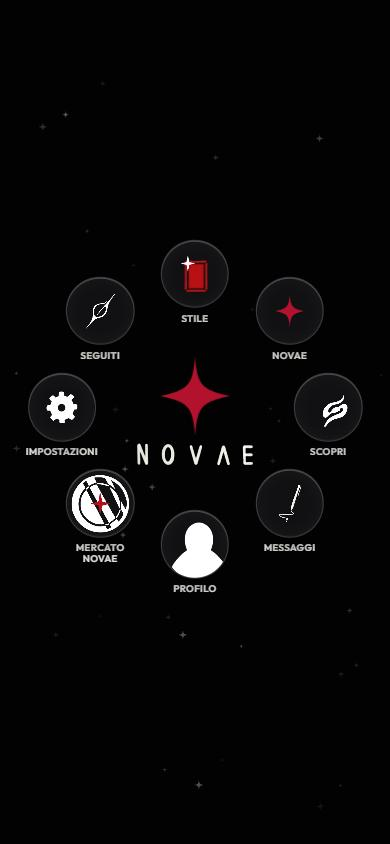
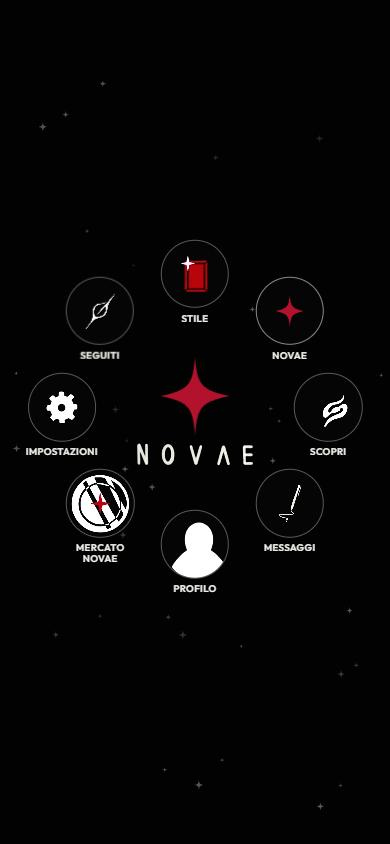
Tolto l'effetto vetro dai tasti
Cerchi del menu e della ruota, pannelli e notifiche tornano pieni
(sfondo nero, bordo grigio sottile). Aggiornati gli screenshot del README.

diff --git a/styles.css b/styles.css
@@ -698,33 +698,6 @@ body[data-screen="disciplina"] .rail { right: max(4px, calc(50% - 560px + 2px));
 .cf-foot a { min-width: 0; overflow: hidden; text-overflow: ellipsis; white-space: nowrap; }
 .cf-foot .act small { font-size: 10px; }
 
-/* ---------- Liquid glass (web approximation: backdrop-filter + layered highlights, not Apple's material) ---------- */
-.hub-circle, .arc-circle, .sheet, .toast, .play-ico, .wallet {
-  --glass-edge: rgba(255, 255, 255, .16);
-  background:
-    radial-gradient(120% 90% at 30% 0%, rgba(255, 255, 255, .11), rgba(255, 255, 255, .02) 46%, transparent 70%),
-    rgba(14, 14, 16, .42);
-  -webkit-backdrop-filter: blur(14px) saturate(170%);
-  backdrop-filter: blur(14px) saturate(170%);
-  border-color: var(--glass-edge);
-  box-shadow:
-    inset 0 1px 0 rgba(255, 255, 255, .24),
-    inset 0 -1px 0 rgba(255, 255, 255, .05),
-    inset 0 0 14px rgba(255, 255, 255, .035),
-    0 10px 30px rgba(0, 0, 0, .45);
-}
-.hub-btn:hover .hub-circle, .hub-btn:focus-visible .hub-circle, .hub-last .hub-circle { --glass-edge: rgba(255, 255, 255, .38); border-color: var(--glass-edge); }
-.arc-item.sel .arc-circle { border-color: rgba(255, 255, 255, .55); box-shadow: inset 0 1px 0 rgba(255,255,255,.3), 0 0 0 5px rgba(214,28,64,.16), 0 10px 30px rgba(0,0,0,.5); }
-.sheet { background: radial-gradient(90% 40% at 30% 0%, rgba(255,255,255,.08), transparent 70%), rgba(16, 16, 18, .78); border: 1px solid var(--glass-edge); border-bottom: 0; }
-.toast { color: var(--ink); border: 1px solid var(--glass-edge); background: rgba(22, 22, 24, .7); }
-@supports not ((backdrop-filter: blur(1px)) or (-webkit-backdrop-filter: blur(1px))) {
-  .hub-circle, .arc-circle, .play-ico, .wallet { background: #0e0e10; }
-  .sheet, .toast { background: #161618; }
-}
-@media (prefers-reduced-transparency: reduce) {
-  .hub-circle, .arc-circle, .sheet, .toast, .play-ico, .wallet { background: #111113; -webkit-backdrop-filter: none; backdrop-filter: none; }
-}
-
 /* ---------- QOL: save, publish, edit profile, action list, pull to refresh ---------- */
 .post-by small { display: block; margin-top: 2px; font-size: 9.5px; font-weight: 500; letter-spacing: .02em; text-transform: none; color: var(--ink-3); }
 .post .new-tag { font-size: 10px; font-weight: 700; letter-spacing: .12em; text-transform: uppercase; color: var(--accent-hi); line-height: 18px; }

diff --git a/index.html b/index.html
@@ -12,10 +12,10 @@
   <link href="https://fonts.googleapis.com/css2?family=Outfit:wght@300;400;500;600&display=swap" rel="stylesheet">
   <link rel="stylesheet" href="https://cdn.jsdelivr.net/npm/@phosphor-icons/web@2.1.1/src/light/style.css">
   <link rel="stylesheet" href="https://cdn.jsdelivr.net/npm/@phosphor-icons/web@2.1.1/src/fill/style.css">
-  <link rel="stylesheet" href="styles.css?v=24">
+  <link rel="stylesheet" href="styles.css?v=25">
   <script src="https://cdn.jsdelivr.net/npm/d3@7.9.0/dist/d3.min.js" defer></script>
   <script src="https://cdn.jsdelivr.net/npm/topojson-client@3.1.0/dist/topojson-client.min.js" defer></script>
-  <script src="app.js?v=24" defer></script>
+  <script src="app.js?v=25" defer></script>
 </head>
 <body data-screen="invito">
 
